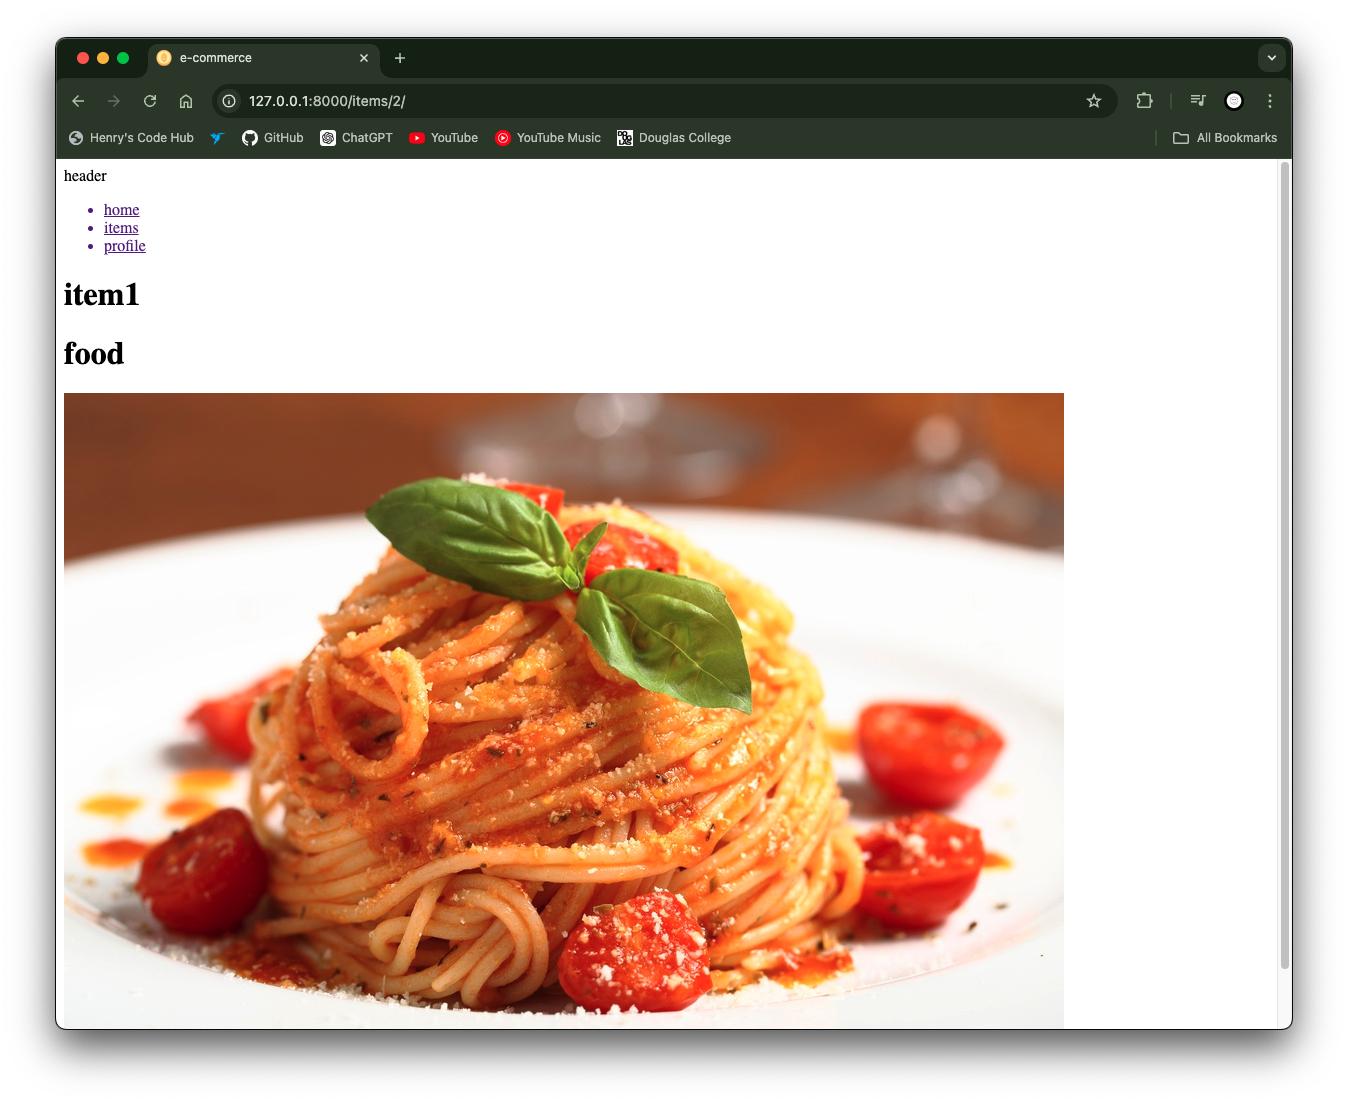
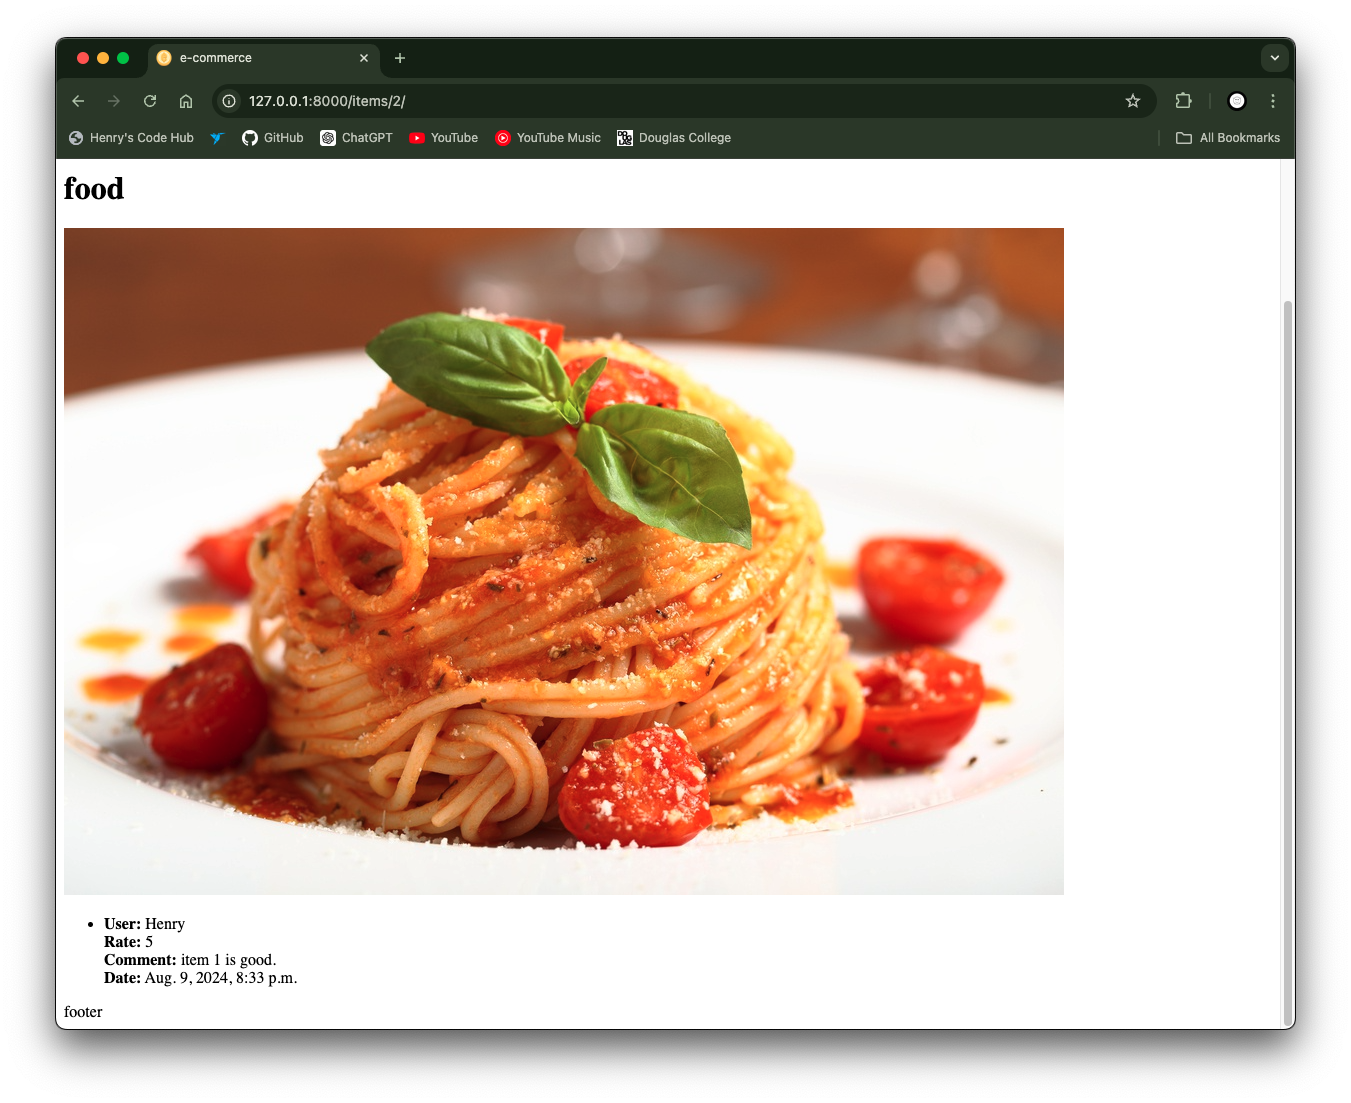
done ecommerce note 3

diff --git a/_posts/2024-08-09-ecommerce3.md b/_posts/2024-08-09-ecommerce3.md
@@ -47,14 +47,17 @@ urlpatterns = [
 ]
 
 ```
-Because to display one specific item, need item's id.
+Because to display one specific item, need item's id. Also each item has reviews, so import Review model and get reviews depending on the item_id.
 
 ```python
 # views.py 
 
 def item_detail(request, item_id):
     item = Item.objects.get(id=item_id)
-    context = {"item": item}
+    reviews = Review.objects.filter(item=item)
+    context = {"item": item,
+                "reviews": reviews
+            }
     return render(request, "ecommerce/item_detail.html", context)
 ```
 the 'item_id' parameter is used for "<int:item_id>/".
@@ -62,18 +65,243 @@ the 'item_id' parameter is used for "<int:item_id>/".
 ```html
 <!-- item_detail.html -->
 
- {% extends "ecommerce_base/base.html" %}
+{% extends "ecommerce_base/base.html" %}
 
 {% block content %}
 <h1>{{item.name}}</h1>
 <h1>{{item.category}}</h1>
 <img src="{{item.image.url}}" alt="itemImg">
+{% if reviews %}
+<ul>
+    {% for review in reviews %}
+        <li>
+            <strong>Rate:</strong> {{ review.rate }}<br>
+            <strong>Comment:</strong> {{ review.comment }}<br>
+            <strong>Date:</strong> {{ review.createdAt }}
+        </li>
+    {% endfor %}
+</ul>
+{% else %}
+<p>No reviews available for this item.</p>
+{% endif %}
 {% endblock content %}
 ```
 
 ![des2](/assets/images/2024-08-09-ecommerce3/des2.png)
 
+#### Profile View
+For now, I will make profile page displays logged in user's infos and design it later. 
 
+```python
+# views.py
 
+def user_profile(request, user_id):
+    user = get_object_or_404(User, id=user_id)
+    reviews = Review.objects.filter(user=user)
+    orders = Order.objects.filter(user=user)
+    context = {
+        'user': user,
+        'reviews': reviews,
+        "orders": orders
+    }
+    return render(request, "ecommerce/user_profile.html", context)
+```
 
+![des3](/assets/images/2024-08-09-ecommerce3/des3.png)
+
+#### Cart View
+
+Before create cart view, need add to cart function.
+```python
+# views.py
+
+def add_to_cart(request, item_id):
+    # Get or create a cart for the user
+    cart, created = Cart.objects.get_or_create(user=request.user)
+
+    # Get the item to be added to the cart
+    item = get_object_or_404(Item, id=item_id)
+
+    # Check if the item is already in the cart
+    cart_item, created = CartItem.objects.get_or_create(
+        item=item,
+        cart=cart,
+        defaults={'quantity': 1, 'price': item.price}
+    )
+    
+    if not created:
+        # If the item already exists in the cart, update the quantity
+        cart_item.quantity += 1
+        cart_item.save()
+
+    return redirect('item-list')  # Redirect to wherever you want after adding to the cart
+```
+
+```python
+def cart_list(request):
+    cart, created = Cart.objects.get_or_create(user=request.user)
+    cart_items = CartItem.objects.filter(cart=cart)
+    context = {
+        "cart": cart,
+        "cart_items": cart_items
+    }
+    return render(request, "ecommerce/cart.html", context)
+
+```
+![des4](/assets/images/2024-08-09-ecommerce3/des4.png)
+
+### Forms
+
+#### Review Form
+First, create a review form class.
+```python
+# forms.py
+
+class ReviewForm(forms.ModelForm):
+
+    class Meta:
+        model = Review
+        fields = '__all__'
+
+```
+
+```python
+# views.py
+
+def create_review(request, item_id):
+    item = Item.objects.get(id=item_id)
+    review_form = ReviewForm()
+
+    if request.method == 'POST':
+        rate = request.POST.get('rate') 
+        comment = request.POST.get('comment')  
+
+        review = Review(
+            item=item,
+            user=request.user, 
+            rate=rate,
+            comment=comment
+        )
+        review.save()
+        return redirect('item-detail', item_id=item_id)
+
+    context = {
+        'item': item,
+        'form': review_form
+    }
+    return render(request, "forms/review_form.html", context)
+
+```
+I added this in item detail view and when clicked, redirect to create review form page.
+```html
+<a href="{% url 'create-review' item.id %}">Create Review</a>
+```
+
+#### Order Form
+I don't need all of the fields, so 
+```python
+class OrderForm(forms.ModelForm):
+
+    class Meta:
+        model = Order
+        fields = [
+            'firstName', 
+            'lastName', 
+            'email', 
+            'address', 
+            'city',
+            'province',
+            'postalCode', 
+        ]
+        
+```
+and create the view. Before, cart_items should be sent to this view, so I added session in cart-list view function to send items. price should be casted to str since session is json format.
+```python
+def cart_list(request):
+    cart, created = Cart.objects.get_or_create(user=request.user)
+    cart_items = CartItem.objects.filter(cart=cart)
+    total_amount = sum(item.quantity * item.price for item in cart_items)
+
+    cart_items_data = [
+        {
+            'item_id': item.item.id,
+            'item_name': item.item.name,
+            'quantity': item.quantity,
+            'price': str(item.price) 
+        }
+        for item in cart_items
+    ]
+    request.session['cart_items'] = cart_items_data
+    context = {
+        "cart": cart,
+        "cart_items": cart_items,
+        "total": total_amount
+    }
+    return render(request, "ecommerce/cart.html", context)
+```
+
+and order form view.
+```python
+def order_form(request):
+    order_form = OrderForm()
+    cart_items = request.session.get('cart_items')
+    total_amount = sum(
+        float(item['quantity']) * float(item['price'])
+        for item in cart_items
+    )
+
+    if cart_items is None:
+        return redirect('cart-list')
+
+    if request.method == 'POST':
+        firstName = request.POST.get('firstName')
+        lastName = request.POST.get('lastName')
+        email = request.POST.get('email')
+        address = request.POST.get('address')
+        city = request.POST.get('city')
+        country = request.POST.get('country')
+        province = request.POST.get('province')
+        postalCode = request.POST.get('postalCode')
+
+        order = Order(
+            user=request.user, 
+            firstName=firstName,
+            lastName=lastName,
+            email=email,
+            address=address,
+            city=city,
+            country=country,
+            province=province,
+            postalCode=postalCode,
+# is_paid, paymentId
+        )
+        order.save()
+        return redirect('item-list')
+
+    context = {
+        'form': order_form,
+        'cart_items': cart_items,
+        'total' :total_amount
+    }
+
+    return render(request, "forms/order_form.html", context)
+```
+
+![des5](/assets/images/2024-08-09-ecommerce3/des5.png)
+##### Learned New 
+'login_required' decorator in Django is used to ensure that a user is authenticated (logged in) before they can access a particular view. If the user is not logged in, they will be automatically redirected to the login page.
+
+```python
+from django.contrib.auth.decorators import login_required
+
+@login_required
+def user_profile(request, user_id):
+    ...
+```
+
+And add this in settings.py.
+```python
+# settings.py
+LOGIN_URL = '/login/'
+```
 {% endraw %}

diff --git a/_posts/2024-07-29-eCommerce1.md b/_posts/2024-07-29-eCommerce1.md
@@ -160,7 +160,7 @@ Now I see index, login pages.
 
 #### Create User Model
 
-For user model, User model inherits AbstractUser and you need to add 'AUTH_USER_MODEL = "[app-name].User"` to settings.py at very bottom.
+For user model, I will use AbstractUser module which offers basic user model schema, so User model inherits AbstractUser and you need to add 'AUTH_USER_MODEL = "[app-name].User"` to settings.py at very bottom.
 
 ```python
 # models. py
@@ -168,7 +168,7 @@ from django.db import models
 from django.contrib.auth.models import AbstractUser
 
 class User(AbstractUser):
-    nickname = models.CharField(max_length=15, unique=True) # additional 
+    nickname = models.CharField(max_length=15, unique=True) # additional schema
 
     def __str__(self):
         return self.nickname
